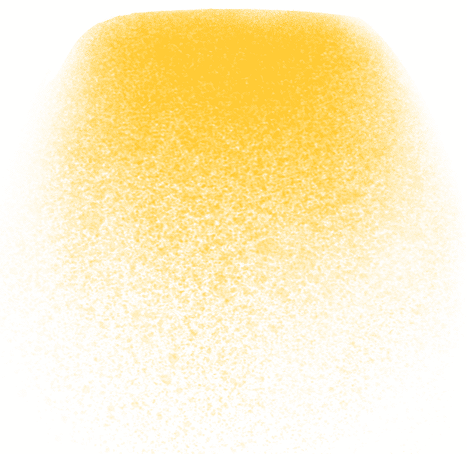
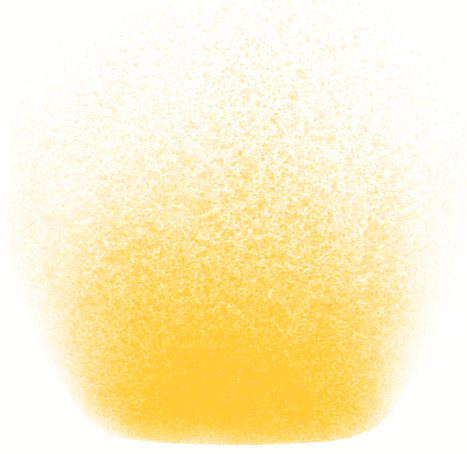
role animation

diff --git a/src/styles/globals.css b/src/styles/globals.css
@@ -17,10 +17,31 @@
   --roleEE: #ffc700;
   --roleGG: #ff5c00;
   --roleBrown: #933500;
-  --linearPrimary: linear-gradient( rgba(0, 255, 244, 0) 0%, rgba(0, 255, 244, 0.25) 60%, rgba(0, 255, 244, 0.45) 80%,rgba(0, 255, 244, 0.7) 90%, rgba(0, 255, 244, 0.9) 100% );
-  --linearRoleSm: linear-gradient( rgba(211, 85, 255, 0) 0%, rgba(211, 85, 255, 0.05) 60%, rgba(211, 85, 255, 0.2) 80%,rgba(211, 85, 255, 0.6) 100% );
-  --linearRoleEE: linear-gradient( rgba(255, 199, 0, 0) 0%, rgba(255, 199, 0, 0.05) 60%, rgba(255, 199, 0, 0.2) 80%,rgba(255, 199, 0, 0.6) 100% );
-  --linearRoleGG: linear-gradient( rgba(255, 122, 0, 0) 0%, rgba(255, 122, 0, 0.05) 60%, rgba(255, 122, 0, 0.2) 80%,rgba(255, 122, 0, 0.6) 100% );
+  --linearPrimary: linear-gradient(
+    rgba(0, 255, 244, 0) 0%,
+    rgba(0, 255, 244, 0.25) 60%,
+    rgba(0, 255, 244, 0.45) 80%,
+    rgba(0, 255, 244, 0.7) 90%,
+    rgba(0, 255, 244, 0.9) 100%
+  );
+  --linearRoleSm: linear-gradient(
+    rgba(211, 85, 255, 0) 0%,
+    rgba(211, 85, 255, 0.05) 60%,
+    rgba(211, 85, 255, 0.2) 80%,
+    rgba(211, 85, 255, 0.6) 100%
+  );
+  --linearRoleEE: linear-gradient(
+    rgba(255, 199, 0, 0) 0%,
+    rgba(255, 199, 0, 0.05) 60%,
+    rgba(255, 199, 0, 0.2) 80%,
+    rgba(255, 199, 0, 0.6) 100%
+  );
+  --linearRoleGG: linear-gradient(
+    rgba(255, 122, 0, 0) 0%,
+    rgba(255, 122, 0, 0.05) 60%,
+    rgba(255, 122, 0, 0.2) 80%,
+    rgba(255, 122, 0, 0.6) 100%
+  );
 }
 
 @theme {
@@ -37,8 +58,11 @@
   --color-primary: var(--primary);
   --color-primary-100: var(--primaryDark);
   --color-primary-200: var(--primaryDeepDark);
-
-  /* ... */
+  --color-dark: var(--textDark);
+  --color-role-sm: var(--roleSm);
+  --color-role-ee: var(--roleEE);
+  --color-role-gg: var(--roleGG);
+  --color-role-brown: var(--roleBrown);
 }
 
 @theme inline {
@@ -56,8 +80,8 @@
 }
 
 body {
-  background: var(--background);
-  background-color: var(--primary);
+  /* background: var(--linearPrimary); */
+  /* background-color: var(--primary); */
   color: var(--textDark);
   font-family: Arial, Helvetica, sans-serif;
 }

diff --git a/src/components/animatedRole/index.tsx b/src/components/animatedRole/index.tsx
@@ -1,0 +1,68 @@
+"use client";
+import Image from "next/image";
+import styles from "./styles.module.scss";
+
+import holeImg from "../../../public/roles/hole.png";
+import RoleEEImg from "../../../public/roles/role_ee.png";
+import RoleEELightImg from "../../../public/roles/role_ee_light.png";
+import RolePOImg from "../../../public/roles/role_po.png";
+import RolePOLightImg from "../../../public/roles/role_po_light.png";
+import RoleGGImg from "../../../public/roles/role_gg.png";
+import RoleGGLightImg from "../../../public/roles/role_gg_light.png";
+import RoleSMImg from "../../../public/roles/role_sm.png";
+import RoleSMLightImg from "../../../public/roles/role_sm_light.png";
+
+const ee = "EE";
+const po = "PO";
+const gg = "GG";
+const sm = "SM";
+export const ROLES = {
+  [ee]: ee,
+  [po]: po,
+  [gg]: gg,
+  [sm]: sm,
+} as const;
+type RoleName = keyof typeof ROLES;
+
+const getRoleImg = (roleName: RoleName) => {
+  switch (roleName) {
+    case ROLES[ee]:
+      return { role: RoleEEImg, light: RoleEELightImg };
+    case ROLES[gg]:
+      return { role: RoleGGImg, light: RoleGGLightImg };
+    case ROLES[sm]:
+      return { role: RoleSMImg, light: RoleSMLightImg };
+    case ROLES[po]:
+    default:
+      return { role: RolePOImg, light: RolePOLightImg };
+  }
+};
+
+export default function AnimatedRole({
+  roleName = ROLES[po],
+}: {
+  roleName?: RoleName;
+}) {
+  console.log(holeImg);
+  return (
+    <div
+      className={styles.container}
+      style={{ backgroundImage: `url(${holeImg.src})` }}
+    >
+      <Image
+        src={getRoleImg(roleName).light.src}
+        alt="role_ee_light"
+        className={styles.roleLight}
+        width={getRoleImg(roleName).light.width}
+        height={getRoleImg(roleName).light.height}
+      />
+      <Image
+        src={getRoleImg(roleName).role}
+        alt="role_ee"
+        className={styles.role}
+        width={getRoleImg(roleName).role.width}
+        height={getRoleImg(roleName).role.height}
+      />
+    </div>
+  );
+}

diff --git a/src/components/animatedRole/styles.module.scss b/src/components/animatedRole/styles.module.scss
@@ -1,0 +1,45 @@
+.container {
+  width: 324px;
+  height: 324px;
+  background-repeat: no-repeat;
+  background-position: bottom;
+  animation: expandX 0.2s ease-out forwards;
+  transform-origin: center;
+  position: relative;
+  .roleLight {
+    opacity: 0;
+    animation: expandY 0.4s ease-out forwards;
+    animation-delay: 0.4s;
+    transform-origin: bottom;
+  }
+  .role {
+    position: absolute;
+    top: 0;
+    left: 0;
+    opacity: 0;
+    animation: expandY 0.2s ease-out forwards;
+    transform-origin: bottom;
+    animation-delay: 0.8s;
+  }
+}
+
+@keyframes expandX {
+  from {
+    transform: scaleX(0);
+    opacity: 0;
+  }
+  to {
+    transform: scaleX(1);
+    opacity: 1;
+  }
+}
+@keyframes expandY {
+  from {
+    transform: scaleY(0);
+    opacity: 0;
+  }
+  to {
+    transform: scaleY(1);
+    opacity: 1;
+  }
+}

diff --git a/src/app/page.tsx b/src/app/page.tsx
@@ -2,6 +2,7 @@
 import React, { useState } from "react";
 
 import AnimatedText from "@/components/animatedText";
+import AnimatedRole, { ROLES } from "@/components/animatedRole";
 
 export default function LandingPage() {
   const [isVisible, setIsVisible] = useState(false);
@@ -17,8 +18,13 @@ export default function LandingPage() {
         click me
       </button>
       {isVisible && (
-        <AnimatedText text="你好，這是一段會動的文字。" delay={0.3} />
+        <AnimatedText
+          className="font-bold text-dark"
+          text="你好，這是一段會動的文字。"
+          delay={0.3}
+        />
       )}
+      <AnimatedRole />
     </div>
   );
 }

diff --git a/src/components/animatedText/index.tsx b/src/components/animatedText/index.tsx
@@ -1,7 +1,7 @@
 "use client";
 
 // import React, { useRef, useState, useEffect } from "react";
-import styles from "./style.module.scss";
+import styles from "./styles.module.scss";
 
 interface AnimatedTextProps {
   text: string;
